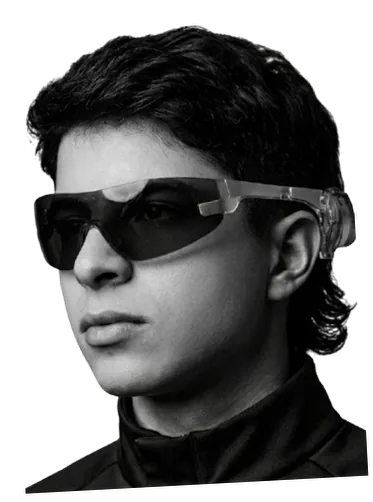
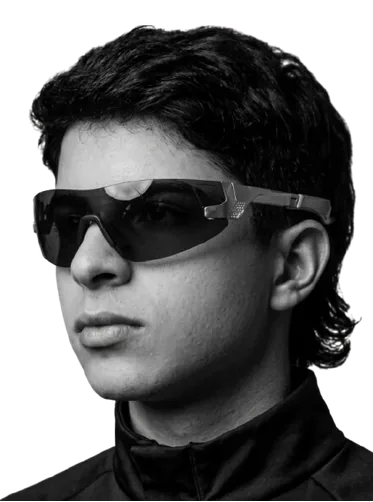
Adjust perfilgafas.webp to match perfil.webp proportions; clean up unused images and broken PNG fallback

diff --git a/index.html b/index.html
@@ -90,7 +90,7 @@
   <section class="hero" id="home">
     <div class="liquid" id="liquid">
       <div class="liquid-stage" id="liquidStage">
-        <picture><source srcset="Imagenes/perfil.webp?v=1" type="image/webp" /><img class="liquid-base" src="Imagenes/perfil.png?v=4" alt="Juan Esteban Henao" fetchpriority="high" /></picture>
+        <img class="liquid-base" src="Imagenes/perfil.webp?v=1" alt="Juan Esteban Henao" fetchpriority="high" />
         <canvas class="liquid-canvas" id="liquidCanvas" aria-hidden="true"></canvas>
       </div>
     </div>
@@ -660,7 +660,7 @@
 <script type="importmap">
 { "imports": { "lenis": "./vendor/lenis.mjs" } }
 </script>
-<script type="module" src="./js/main.js?v=3"></script>
+<script type="module" src="./js/main.js?v=4"></script>
 
 <script>
 /* Failsafe: if the main module never signals ready (e.g. a failed import or a

diff --git a/js/main.js b/js/main.js
@@ -181,9 +181,9 @@ setInterval(updateClock, 1000);
   }
   const ctx = canvas.getContext('2d');
 
-  // Mapping: base (always visible / LCP) = perfil.png (transparent), brush paint (revealed on hover) = perfilgafas.png (transparent)
+  // Mapping: base (always visible / LCP) = perfil.webp (transparent), brush paint (revealed on hover) = perfilgafas.webp (transparent)
   const beforeSrc = 'Imagenes/perfil.webp?v=1';
-  const afterSrc  = 'Imagenes/perfilgafas.webp?v=1';
+  const afterSrc  = 'Imagenes/perfilgafas.webp?v=2';
 
   const BRUSH_RADIUS = 143;
   const DECAY = 0.016;
